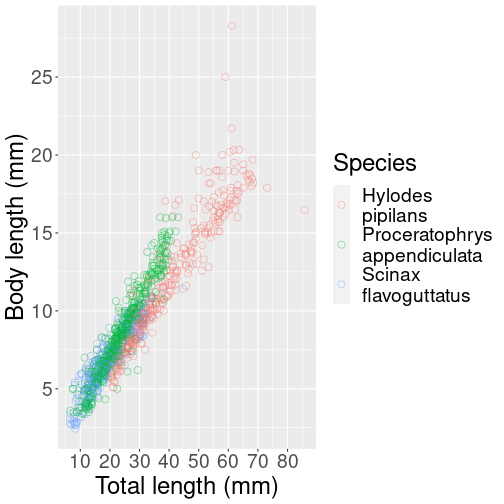
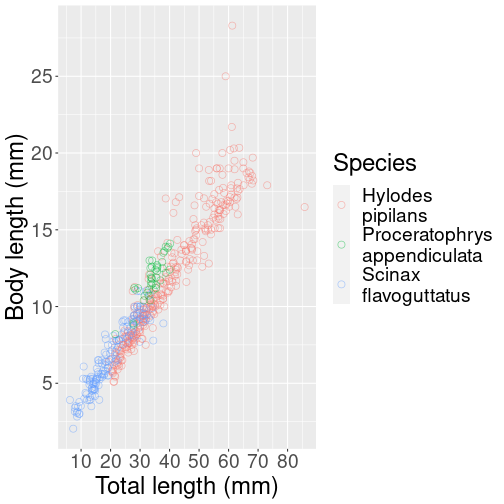
Update Slides 06
Fixed minor erros in slide codes

diff --git a/Slides/libs/xaringanExtra-scribble/scribble.js b/Slides/libs/xaringanExtra-scribble/scribble.js
@@ -17,10 +17,6 @@ class Scribble {
     this.tolerance = this.eraserSize / 2
     // this.eraserColor = opts['eraser_color'] || 'rgba(0, 0, 0, 0.1)'
     this.transparent = 'rgba(0, 0, 0, 0)'
-    this.opts.palette = [
-      ...this.opts.palette,
-      ...this.defaultPresetColors.slice(this.opts.palette.length)
-    ]
 
     // Fabric objects
     this.fabrics = null
@@ -37,7 +33,6 @@ class Scribble {
 
     this.eraserCursorMovement = this.eraserCursorMovement.bind(this)
     this.eraserDetectErase = this.eraserDetectErase.bind(this)
-    this.setPresetColor = this.setPresetColor.bind(this)
 
     // Toolbox objects
     this.launchKey = 83 // "S" used to toggle toolbox/state
@@ -74,7 +69,6 @@ class Scribble {
     )
     window.addEventListener('resize', this.resizeContent.bind(this))
   }
-
 
   getVisibleSlide () {
     return document.querySelector('.remark-visible')
@@ -383,17 +377,6 @@ class Scribble {
     })
   }
 
-  setPresetColor (ev) {
-    let idx = Number(ev.key)
-    if (isNaN(idx) || typeof idx === 'undefined' || idx >= 10) return;
-    idx = idx === 0 ? 10 : idx
-    const presetColor = this.opts.palette[idx - 1]
-    this.currColor = presetColor
-    this.currFabric.freeDrawingBrush.color = presetColor
-    this.setPenColorCSSVariables(presetColor)
-    this.colorPicker.value = presetColor
-  }
-
   startDrawing () {
     slideshow.pause()
     this.toggleToolbox(true)
@@ -414,7 +397,6 @@ class Scribble {
 
     document.addEventListener('keydown', this.undo)
     document.addEventListener('keydown', this.redo)
-    document.addEventListener('keydown', this.setPresetColor)
 
     document.removeEventListener('mousemove', this.eraserCursorMovement)
     document.removeEventListener('touchmove', this.eraserCursorMovement)
@@ -438,7 +420,6 @@ class Scribble {
 
     document.removeEventListener('keydown', this.undo)
     document.removeEventListener('keydown', this.redo)
-    document.removeEventListener('keydown', this.setPresetColor)
 
     this.drawBtn.classList.remove('active')
     this.eraseBtn.classList.remove('active')
@@ -649,16 +630,3 @@ Scribble.prototype.svgs = {
   trash:
     '<svg xmlns="http://www.w3.org/2000/svg" width="192" height="192" fill="#000000" viewBox="0 0 256 256"><rect width="256" height="256" fill="none"></rect><line x1="215.99609" y1="56" x2="39.99609" y2="56.00005" fill="none" stroke="currentColor" stroke-linecap="round" stroke-linejoin="round" stroke-width="16"></line><line x1="104" y1="104" x2="104" y2="168" fill="none" stroke="currentColor" stroke-linecap="round" stroke-linejoin="round" stroke-width="16"></line><line x1="152" y1="104" x2="152" y2="168" fill="none" stroke="currentColor" stroke-linecap="round" stroke-linejoin="round" stroke-width="16"></line><path d="M199.99609,56.00005V208a8,8,0,0,1-8,8h-128a8,8,0,0,1-8-8v-152" fill="none" stroke="currentColor" stroke-linecap="round" stroke-linejoin="round" stroke-width="16"></path><path d="M168,56V40a16,16,0,0,0-16-16H104A16,16,0,0,0,88,40V56" fill="none" stroke="currentColor" stroke-linecap="round" stroke-linejoin="round" stroke-width="16"></path></svg>'
 }
-
-Scribble.prototype.defaultPresetColors = [
-  "#e51c23", // red (1)
-  "#259b24", // green (2)
-  "#9c27b0", // purple (3)
-  "#5677fc", // blue (4)
-  "#ff9800", // orange (5)
-  "#00bcd4", // cyan (6)
-  "#ffc107", // yellow (7)
-  "#009688", // teal (8)
-  "#9e9e9e", // grey (9)
-  "#212121"  // black (0)
-]

diff --git a/Slides/libs/panelset/panelset.css b/Slides/libs/panelset/panelset.css
@@ -4,7 +4,6 @@
   width: 100%;
   position: relative;
   --panel-tabs-border-bottom: #ddd;
-  --panel-tabs-sideways-max-width: 25%;
   --panel-tab-foreground: currentColor;
   --panel-tab-background: unset;
   --panel-tab-active-foreground: currentColor;
@@ -68,8 +67,6 @@
   color: currentColor;
   text-decoration: none;
   border: none;
-  width: 100%;
-  height: 100%;
 }
 
 .panelset .panel-tabs .panel-tab > a:focus {
@@ -112,116 +109,4 @@
 
 .panelset .panel-active {
   display: block;
-}
-
-/* ---- Sideways Panelset ---- */
-
-@media (min-width: 480px) {
-  .panelset.sideways {
-    display: flex;
-    flex-direction: row;
-  }
-
-  .panelset.sideways .panel-tabs {
-    box-shadow: none;
-    flex-direction: column;
-    align-items: start;
-    margin: 0;
-    margin-right: 1em;
-    border-right: 2px solid var(--panel-tabs-border-bottom);
-    max-width: var(--panel-tabs-sideways-max-width);
-  }
-
-  .panelset.sideways .panel {
-    max-width: calc(100% - var(--panel-tabs-sideways-max-width) - 1em);
-  }
-
-  .panelset.sideways .panel-tabs .panel-tab {
-    border-top: unset;
-    border-bottom: unset;
-    padding-left: 0;
-  }
-
-  .panelset.sideways.right {
-    flex-direction: row-reverse;
-    justify-content: space-between;
-  }
-
-  .panelset.sideways.right {
-  	text-align: inherit;
-  }
-
-  .panelset.sideways.right .panel-tabs {
-    align-items: end;
-    margin-right: 0;
-    margin-left: 1em;
-    border-right: unset;
-    border-left: 2px solid var(--panel-tabs-border-bottom);
-  }
-
-  .panelset.sideways.right .panel-tabs .panel-tab {
-    padding-left: 1em;
-    width: 100%;
-  }
-
-  .panelset.sideways.right .panel-tabs .panel-tab a {
-    text-align: right;
-  }
-}
-
-/*
-  This next part repeats the same CSS inside the @media query above but with
-  remarkjs-specific classes to ensure that sideways panelsets are always used.
-  In the future, we could use @container queries instead once they're availble.
-*/
-
-.remark-container .panelset.sideways {
-  display: flex;
-  flex-direction: row;
-}
-
-.remark-container .panelset.sideways .panel-tabs {
-  box-shadow: none;
-  flex-direction: column;
-  align-items: start;
-  margin: 0;
-  margin-right: 1em;
-  border-right: 2px solid var(--panel-tabs-border-bottom);
-  max-width: var(--panel-tabs-sideways-max-width);
-}
-
-.remark-container .panelset.sideways .panel {
-  max-width: calc(100% - var(--panel-tabs-sideways-max-width) - 1em);
-}
-
-.remark-container .panelset.sideways .panel-tabs .panel-tab {
-  border-top: unset;
-  border-bottom: unset;
-  padding-left: 0;
-}
-
-.remark-container .panelset.sideways.right {
-  flex-direction: row-reverse;
-  justify-content: space-between;
-}
-
-.remark-container .panelset.sideways.right {
-	text-align: inherit;
-}
-
-.remark-container .panelset.sideways.right .panel-tabs {
-  align-items: end;
-  margin-right: 0;
-  margin-left: 1em;
-  border-right: unset;
-  border-left: 2px solid var(--panel-tabs-border-bottom);
-}
-
-.remark-container .panelset.sideways.right .panel-tabs .panel-tab {
-  padding-left: 1em;
-  width: 100%;
-}
-
-.remark-container .panelset.sideways.right .panel-tabs .panel-tab a {
-  text-align: right;
 }

diff --git a/Slides/06-Transformação-e-Visualização-de-Dados.html b/Slides/06-Transformação-e-Visualização-de-Dados.html
@@ -4128,6 +4128,7 @@ background-size: 15%, 10%
 
 ```r
 tadpoles_len_sp %&gt;% 
+  filter(species %in% c("Hp", "Pa", "Sf")) %&gt;% 
   drop_na() %&gt;% 
 * ggplot(aes(x = total_len,
 *            y = body_len)) +
@@ -4160,6 +4161,7 @@ background-size: 15%, 10%
 
 ```r
 tadpoles_len_sp %&gt;% 
+  filter(species %in% c("Hp", "Pa", "Sf")) %&gt;% 
   drop_na() %&gt;% 
   ggplot(aes(x = total_len, 
              y = body_len,
@@ -4195,7 +4197,7 @@ background-size: 15%, 10%
 
 ```r
 tadpoles_len_sp %&gt;% 
-  filter(species %in% c("Hp", "Pb", "Sa")) %&gt;% 
+  filter(species %in% c("Hp", "Pa", "Sf")) %&gt;% 
   drop_na() %&gt;% 
   ggplot(aes(x = total_len, 
              y = body_len,
@@ -4250,7 +4252,7 @@ background-size: 15%, 10%
 
 ```r
 tadpoles_len_sp %&gt;% 
-  filter(species %in% c("Hp", "Pb", "Sa")) %&gt;% 
+  filter(species %in% c("Hp", "Pa", "Sf")) %&gt;% 
   drop_na() %&gt;% 
   ggplot(aes(x = total_len, 
              y = body_len,
@@ -4285,7 +4287,7 @@ background-size: 15%, 10%
 
 ```r
 tadpoles_len_sp %&gt;% 
-  filter(species %in% c("Hp", "Pb", "Sa")) %&gt;% 
+  filter(species %in% c("Hp", "Pa", "Sf")) %&gt;% 
   drop_na() %&gt;% 
   ggplot(aes(x = total_len, 
              y = body_len,
@@ -4318,7 +4320,7 @@ background-size: 15%, 10%
 
 ```r
 tadpoles_len_sp %&gt;% 
-  filter(species %in% c("Hp", "Pb", "Sa")) %&gt;% 
+  filter(species %in% c("Hp", "Pa", "Sf")) %&gt;% 
   drop_na() %&gt;% 
   ggplot(aes(x = total_len, 
              y = body_len,
@@ -4350,7 +4352,7 @@ background-size: 15%, 10%
 
 ```r
 tadpoles_len_sp %&gt;% 
-  filter(species %in% c("Hp", "Pb", "Sa")) %&gt;% 
+  filter(species %in% c("Hp", "Pa", "Sf")) %&gt;% 
   drop_na() %&gt;% 
   ggplot(aes(x = total_len, 
              y = body_len,
@@ -5219,7 +5221,7 @@ background-size: 15%, 10%
 
 ```r
 tadpoles_len_sp %&gt;% 
-  filter(species %in% c("Hp", "Pb", "Sa")) %&gt;% 
+  filter(species %in% c("Hp", "Pa", "Sf")) %&gt;% 
   drop_na() %&gt;% 
   ggplot(aes(x = total_len, 
              y = body_len,
@@ -5415,8 +5417,7 @@ original &lt;- theme_update(
   axis.title = element_text(size = 24,
                             color = "blue"),
   axis.text = element_text(size = 20), 
-  legend.title = element_text("Species", 
-                              size = 24, 
+  legend.title = element_text(size = 24, 
                               color = "blue"),
   legend.text = element_text(size = 20,
                              face = "italic"),

diff --git a/Slides/libs/panelset/panelset.js b/Slides/libs/panelset/panelset.js
@@ -235,7 +235,6 @@
 
       const contents = panels.map(processPanelItem).filter(o => o !== null)
       const newPanelSet = reflowPanelSet(contents, idx)
-      newPanelSet.classList = panelset.classList
       panelset.parentNode.insertBefore(newPanelSet, panelset)
       panelset.parentNode.removeChild(panelset)
 

diff --git a/Slides/libs/xaringanExtra-shareagain/shareagain.js b/Slides/libs/xaringanExtra-shareagain/shareagain.js
@@ -2,8 +2,7 @@
 (function () {
   function inIframe () {
     try {
-      return window.self !== window.top &&
-        !window.self.location.href.match('viewer_pane=1') // in RStudio
+      return window.self !== window.top
     } catch (e) {
       return true
     }
